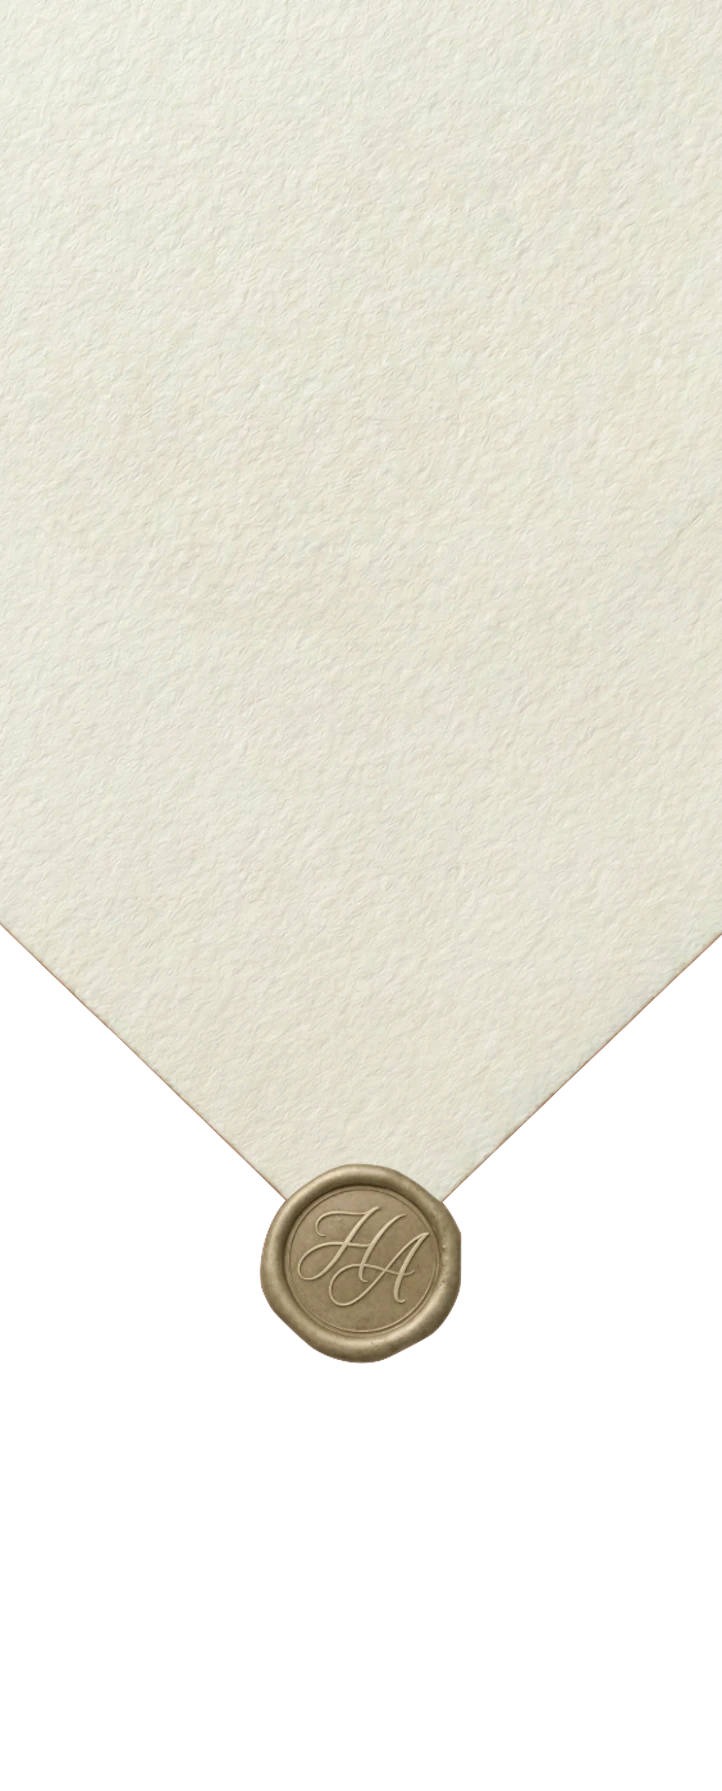
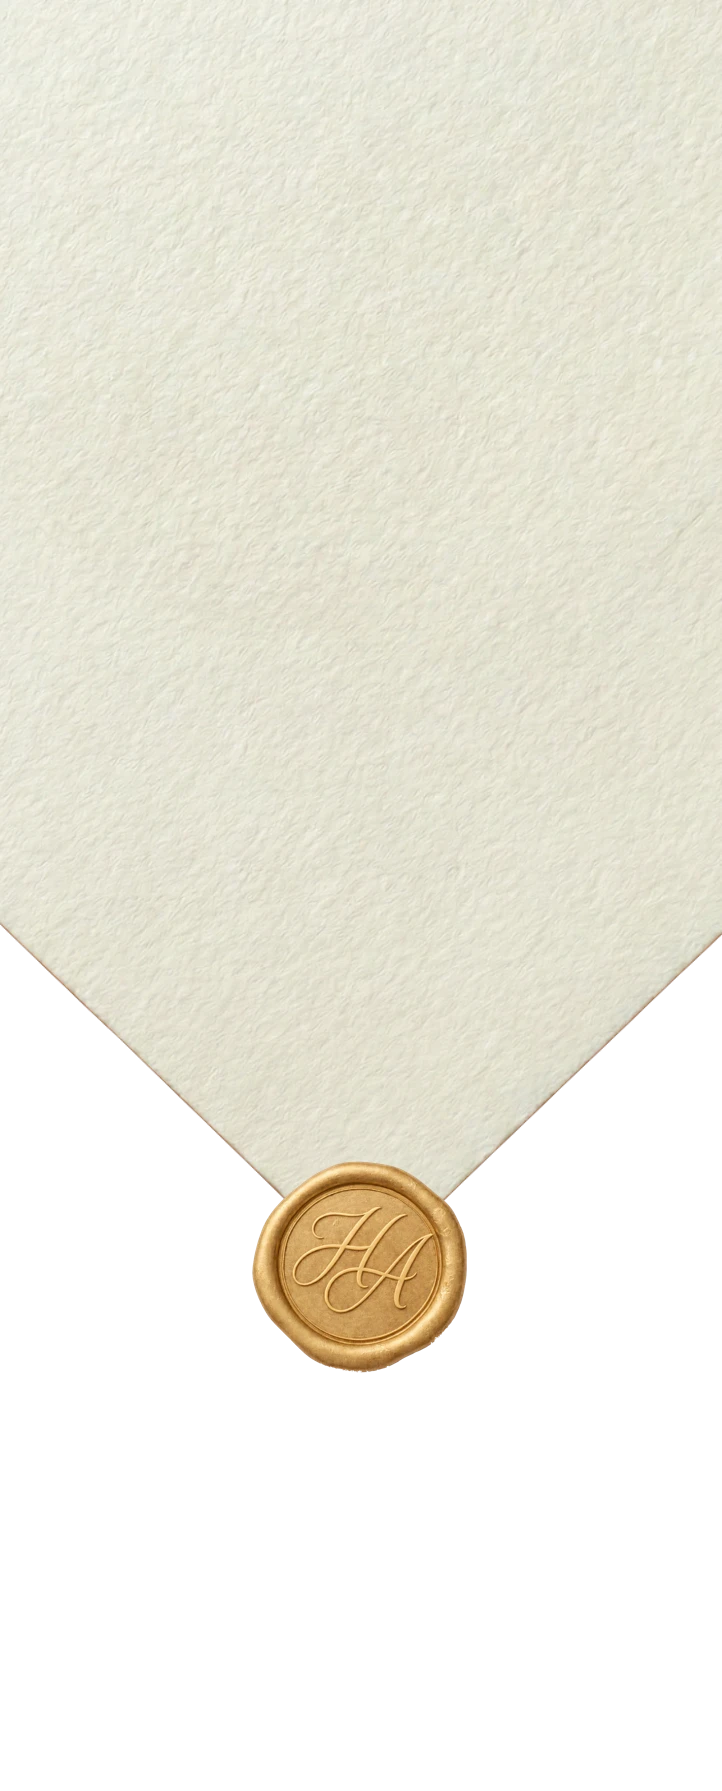
fix(ui): linter formatting and style adjustments
- Apply linter formatting to CSS and JSX files
- Adjust EventLocation font sizes
- Update reception text margin
- Fix EventDate time format

Changed region(s): [[0.3352, 0.6449, 0.6704, 0.7677]]

diff --git a/src/components/Card.css b/src/components/Card.css
@@ -4,6 +4,7 @@
         opacity: 0;
         transform: translateY(-60px);
     }
+
     100% {
         opacity: 1;
         transform: translateY(0);
@@ -24,33 +25,101 @@
 }
 
 /* Animation de chute pour chaque élément */
-.card > * {
+.card>* {
     opacity: 0;
     animation: fallIn 0.8s cubic-bezier(0.16, 1, 0.3, 1) forwards;
 }
 
 /* Délais décalés pour chaque élément (commence après le toggle et music player) */
-.card > *:nth-child(1) { animation-delay: 0s; }      /* LanguageToggle */
-.card > *:nth-child(2) { animation-delay: 0s; }      /* MusicPlayer */
-.card > *:nth-child(3) { animation-delay: 0.15s; }   /* HebrewTitle */
-.card > *:nth-child(4) { animation-delay: 0.3s; }    /* FamilyNames */
-.card > *:nth-child(5) { animation-delay: 0.45s; }   /* AnnouncementText */
-.card > *:nth-child(6) { animation-delay: 0.6s; }    /* CoupleNames */
-.card > *:nth-child(7) { animation-delay: 0.75s; }   /* ClosingText */
-.card > *:nth-child(8) { animation-delay: 0.9s; }    /* EventDate */
-.card > *:nth-child(9) { animation-delay: 1.0s; }    /* Reception text */
-.card > *:nth-child(10) { animation-delay: 1.1s; }   /* EventLocation */
-.card > *:nth-child(11) { animation-delay: 1.2s; }   /* Houppa info */
-.card > *:nth-child(12) { animation-delay: 1.3s; }   /* MemoryPhrase */
-.card > *:nth-child(13) { animation-delay: 1.4s; }   /* Grandparents */
-.card > *:nth-child(14) { animation-delay: 1.5s; }   /* DressCode */
-.card > *:nth-child(15) { animation-delay: 1.6s; }   /* LocationMap */
-.card > *:nth-child(16) { animation-delay: 1.7s; }   /* RSVPForm */
-.card > *:nth-child(17) { animation-delay: 1.8s; }   /* Extra */
+.card>*:nth-child(1) {
+    animation-delay: 0s;
+}
+
+/* LanguageToggle */
+.card>*:nth-child(2) {
+    animation-delay: 0s;
+}
+
+/* MusicPlayer */
+.card>*:nth-child(3) {
+    animation-delay: 0.15s;
+}
+
+/* HebrewTitle */
+.card>*:nth-child(4) {
+    animation-delay: 0.3s;
+}
+
+/* FamilyNames */
+.card>*:nth-child(5) {
+    animation-delay: 0.45s;
+}
+
+/* AnnouncementText */
+.card>*:nth-child(6) {
+    animation-delay: 0.6s;
+}
+
+/* CoupleNames */
+.card>*:nth-child(7) {
+    animation-delay: 0.75s;
+}
+
+/* ClosingText */
+.card>*:nth-child(8) {
+    animation-delay: 0.9s;
+}
+
+/* EventDate */
+.card>*:nth-child(9) {
+    animation-delay: 1.0s;
+}
+
+/* Reception text */
+.card>*:nth-child(10) {
+    animation-delay: 1.1s;
+}
+
+/* EventLocation */
+.card>*:nth-child(11) {
+    animation-delay: 1.2s;
+}
+
+/* Houppa info */
+.card>*:nth-child(12) {
+    animation-delay: 1.3s;
+}
+
+/* MemoryPhrase */
+.card>*:nth-child(13) {
+    animation-delay: 1.4s;
+}
+
+/* Grandparents */
+.card>*:nth-child(14) {
+    animation-delay: 1.5s;
+}
+
+/* DressCode */
+.card>*:nth-child(15) {
+    animation-delay: 1.6s;
+}
+
+/* LocationMap */
+.card>*:nth-child(16) {
+    animation-delay: 1.7s;
+}
+
+/* RSVPForm */
+.card>*:nth-child(17) {
+    animation-delay: 1.8s;
+}
+
+/* Extra */
 
 /* Les contrôles (toggle, music) apparaissent immédiatement sans tomber */
-.card > .language-toggle,
-.card > .music-player {
+.card>.language-toggle,
+.card>.music-player {
     animation: none;
     opacity: 1;
 }
@@ -124,10 +193,10 @@
     width: 100%;
     padding-left: var(--padding-section-x);
     padding-right: var(--padding-section-x);
-    margin-top: clamp(0.5rem, 1.5vw, 0.8rem);
+    margin-top: clamp(2.5rem, 1.7vw, 0.8rem);
     margin-bottom: clamp(0.3rem, 1vw, 0.5rem);
     text-shadow: 1px 1px 2px var(--color-text-shadow), 0 0 8px rgba(59, 53, 36, 0.3);
-    font-size: clamp(1.38rem, 4.42vw, 1.66rem);
+    font-size: clamp(1.4rem, 4.42vw, 1.66rem);
     font-weight: 550;
     line-height: 1.5;
 }
@@ -175,12 +244,12 @@
 }
 
 /* Supprime la marge entre EventLocation et houppa-info */
-.event-location + .houppa-info {
+.event-location+.houppa-info {
     margin-top: 0;
 }
 
 /* Supprime la marge entre MemoryPhrase et la liste des grands-parents */
-.memory-phrase + .houppa-info {
+.memory-phrase+.houppa-info {
     margin-top: 0;
 }
 

diff --git a/src/components/LocationMap.jsx b/src/components/LocationMap.jsx
@@ -10,14 +10,14 @@ const LocationMap = ({
   const wazeText = lang === "he" ? "פתח ב-Waze" : "Ouvrir dans Waze";
   return (
     <div className="location-map">
-      <div className="map-embed">
+      {/* <div className="map-embed">
         <iframe
           src="https://www.google.com/maps/d/embed?mid=1sd6ZzNyi7L9-SkFQE8TOWLgYDnBJSPc"
           title="Plan d'accès au mariage"
           allowFullScreen
           loading="lazy"
         />
-      </div>
+      </div> */}
       <div className="map-buttons">
         <a
           href={wazeUrl}
@@ -26,9 +26,9 @@ const LocationMap = ({
           className="map-button waze"
         >
           <svg viewBox="0 0 48 48" className="waze-icon">
-            <path fill="#37474f" d="M27,38C9.1,38,5.2,33.2,3.6,31.1c-0.4-0.4-0.6-1-0.6-1.6C3,28.1,4.1,27,5.5,27C6.4,27,9,27,9,22.1 v-0.6C9,12.4,17.1,5,27,5s18,7.4,18,16.5S36.9,38,27,38z"/>
-            <path fill="#fff" d="M27,36c8.8,0,16-6.5,16-14.5S35.8,7,27,7s-16,6.5-16,14.5v0.6c0,6.2-3.8,6.9-5.5,6.9 C5.2,29,5,29.2,5,29.5c0,0.1,0,0.2,0.1,0.3C6.6,31.7,10,36,27,36z"/>
-            <path fill="#37474f" d="M32 16A2 2 0 1 0 32 20 2 2 0 1 0 32 16zM22 16A2 2 0 1 0 22 20 2 2 0 1 0 22 16zM27 29c-4.8 0-6.7-3.5-7-5.3-.1-.5.3-1.1.8-1.2.5-.1 1.1.3 1.2.8 0 .1.7 3.7 5 3.7 4.3 0 5-3.5 5-3.7.1-.5.6-.9 1.2-.8.5.1.9.6.8 1.1C33.7 25.5 31.8 29 27 29z"/>
+            <path fill="#37474f" d="M27,38C9.1,38,5.2,33.2,3.6,31.1c-0.4-0.4-0.6-1-0.6-1.6C3,28.1,4.1,27,5.5,27C6.4,27,9,27,9,22.1 v-0.6C9,12.4,17.1,5,27,5s18,7.4,18,16.5S36.9,38,27,38z" />
+            <path fill="#fff" d="M27,36c8.8,0,16-6.5,16-14.5S35.8,7,27,7s-16,6.5-16,14.5v0.6c0,6.2-3.8,6.9-5.5,6.9 C5.2,29,5,29.2,5,29.5c0,0.1,0,0.2,0.1,0.3C6.6,31.7,10,36,27,36z" />
+            <path fill="#37474f" d="M32 16A2 2 0 1 0 32 20 2 2 0 1 0 32 16zM22 16A2 2 0 1 0 22 20 2 2 0 1 0 22 16zM27 29c-4.8 0-6.7-3.5-7-5.3-.1-.5.3-1.1.8-1.2.5-.1 1.1.3 1.2.8 0 .1.7 3.7 5 3.7 4.3 0 5-3.5 5-3.7.1-.5.6-.9 1.2-.8.5.1.9.6.8 1.1C33.7 25.5 31.8 29 27 29z" />
           </svg>
           {wazeText}
         </a>

diff --git a/src/components/Envelope.css b/src/components/Envelope.css
@@ -43,32 +43,35 @@
 /* ---- Lueur divine ---- */
 .envelope__glow {
     grid-area: 1 / 1;
-    width: 100%;
-    height: 100%;
+    width: 200%;
+    height: 200%;
     z-index: 0;
     opacity: 0;
-    /* 🟢 [MODIFIABLE] Couleur et forme de la lueur */
-    background: radial-gradient(
-        ellipse at center,
-        rgba(255, 248, 220, 0.9) 0%,
-        rgba(255, 240, 190, 0.6) 25%,
-        rgba(255, 230, 160, 0.3) 50%,
-        transparent 75%
-    );
-    transition: opacity 0.5s ease-out;
+    /* Lueur massive blanc/doré */
+    background: radial-gradient(ellipse at center,
+            rgba(255, 255, 255, 1) 0%,
+            rgba(255, 250, 230, 0.95) 15%,
+            rgba(255, 240, 200, 0.8) 30%,
+            rgba(255, 230, 170, 0.5) 50%,
+            rgba(255, 220, 140, 0.2) 70%,
+            transparent 100%);
+    transform: scale(0.3);
+    transition: opacity 0.5s ease-out, transform 0.5s ease-out;
     pointer-events: none;
 }
 
-/* Pendant l'ouverture : lueur commence à apparaître doucement */
+/* Pendant l'ouverture : lueur commence à grandir et apparaître */
 .envelope--opening .envelope__glow {
-    opacity: 0.4;
-    transition: opacity 1.8s ease-in;
+    opacity: 0.7;
+    transform: scale(0.8);
+    transition: opacity 1.8s ease-in, transform 1.8s ease-out;
 }
 
-/* Pendant la disparition : lueur à pleine puissance */
+/* Pendant la disparition : explosion de lumière */
 .envelope--vanishing .envelope__glow {
     opacity: 1;
-    transition: opacity 0.6s ease-out;
+    transform: scale(1.5);
+    transition: opacity 0.8s ease-out, transform 1s cubic-bezier(0.16, 1, 0.3, 1);
 }
 
 /* ---- Le rabat (haut) ---- */

diff --git a/src/components/RSVPForm.css b/src/components/RSVPForm.css
@@ -28,12 +28,10 @@
     left: 0;
     right: 0;
     height: 50%;
-    background: linear-gradient(
-        180deg,
-        rgba(255, 255, 255, 0.15) 0%,
-        rgba(255, 255, 255, 0.05) 50%,
-        transparent 100%
-    );
+    background: linear-gradient(180deg,
+            rgba(255, 255, 255, 0.15) 0%,
+            rgba(255, 255, 255, 0.05) 50%,
+            transparent 100%);
     pointer-events: none;
     border-radius: 1.5rem 1.5rem 0 0;
 }
@@ -43,11 +41,9 @@
     content: '';
     position: absolute;
     inset: 0;
-    background: radial-gradient(
-        ellipse at 30% 20%,
-        rgba(255, 255, 255, 0.1) 0%,
-        transparent 50%
-    );
+    background: radial-gradient(ellipse at 30% 20%,
+            rgba(255, 255, 255, 0.1) 0%,
+            transparent 50%);
     mix-blend-mode: overlay;
     pointer-events: none;
     border-radius: 1.5rem;
@@ -167,11 +163,9 @@
     left: 0;
     right: 0;
     height: 50%;
-    background: linear-gradient(
-        180deg,
-        rgba(255, 255, 255, 0.2) 0%,
-        rgba(255, 255, 255, 0.05) 100%
-    );
+    background: linear-gradient(180deg,
+            rgba(255, 255, 255, 0.2) 0%,
+            rgba(255, 255, 255, 0.05) 100%);
     pointer-events: none;
     border-radius: 2rem 2rem 0 0;
 }

diff --git a/src/components/LocationMap.css b/src/components/LocationMap.css
@@ -73,12 +73,10 @@
     left: 0;
     right: 0;
     height: 50%;
-    background: linear-gradient(
-        180deg,
-        rgba(255, 255, 255, 0.15) 0%,
-        rgba(255, 255, 255, 0.05) 50%,
-        transparent 100%
-    );
+    background: linear-gradient(180deg,
+            rgba(255, 255, 255, 0.15) 0%,
+            rgba(255, 255, 255, 0.05) 50%,
+            transparent 100%);
     pointer-events: none;
 }
 
@@ -87,11 +85,9 @@
     content: '';
     position: absolute;
     inset: 0;
-    background: radial-gradient(
-        ellipse at 30% 20%,
-        rgba(255, 255, 255, 0.1) 0%,
-        transparent 50%
-    );
+    background: radial-gradient(ellipse at 30% 20%,
+            rgba(255, 255, 255, 0.1) 0%,
+            transparent 50%);
     mix-blend-mode: overlay;
     pointer-events: none;
 }

diff --git a/src/components/EventLocation.css b/src/components/EventLocation.css
@@ -15,15 +15,15 @@
 }
 
 .event-location .venue-prefix {
-    font-size: clamp(1.2rem, 5vw, 2.2rem);
+    font-size: clamp(2.3rem, 7vw, 2.9rem);
 }
 
 .event-location .venue-name {
-    font-size: clamp(2.59rem, 7.92vw, 3.46rem);
+    font-size: clamp(3rem, 8vw, 3.5rem);
 }
 
 .event-location .address {
-    font-size: clamp(1.58rem, 4.61vw, 2.02rem);
+    font-size: clamp(2.1rem, 6vw, 2.5rem);
     font-style: italic;
     font-weight: 550;
     margin: 0;

diff --git a/src/components/ClosingText.jsx b/src/components/ClosingText.jsx
@@ -3,7 +3,7 @@ import "./ClosingText.css";
 
 const ClosingText = ({
   lines = [
-    "Et seront honorés de votre présence à la Houpa qui sera célébrée le",
+    "Et seront honorés de votre présence à la Houppa qui sera célébrée le",
   ],
 }) => {
   return (

diff --git a/src/components/Envelope.jsx b/src/components/Envelope.jsx
@@ -33,8 +33,6 @@ const Envelope = ({ onOpen }) => {
           className="envelope__bottom"
         />
 
-        {/* Indication de tap */}
-        <p className="envelope__hint">Appuyez pour ouvrir</p>
       </div>
     </div>
   );

diff --git a/src/components/EventDate.jsx b/src/components/EventDate.jsx
@@ -4,7 +4,7 @@ import "./EventDate.css";
 const EventDate = ({
   date = "Lundi 11 mai 2026",
   dateHe = "11/05/26",
-  time = "17h",
+  time = "17h00",
   lang = "fr",
 }) => {
   const displayDate = lang === "he" ? dateHe : date;
